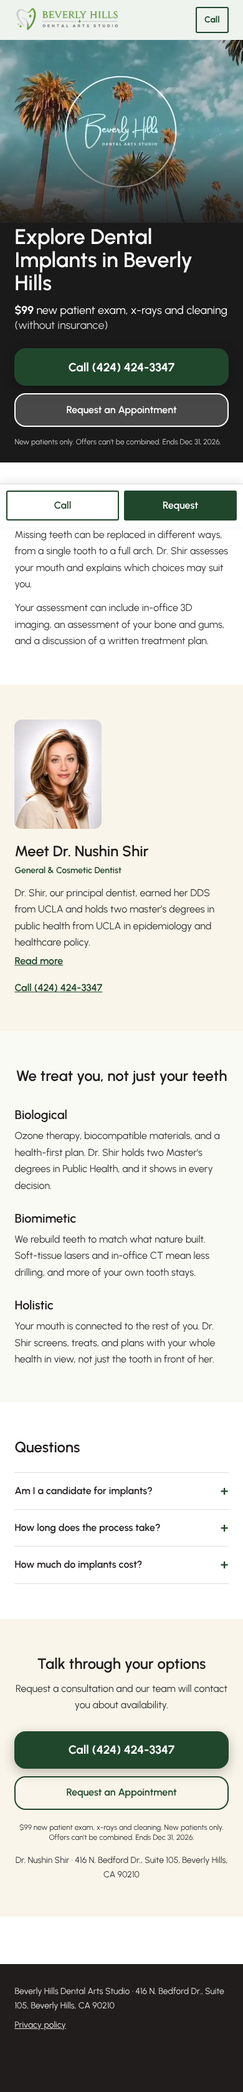
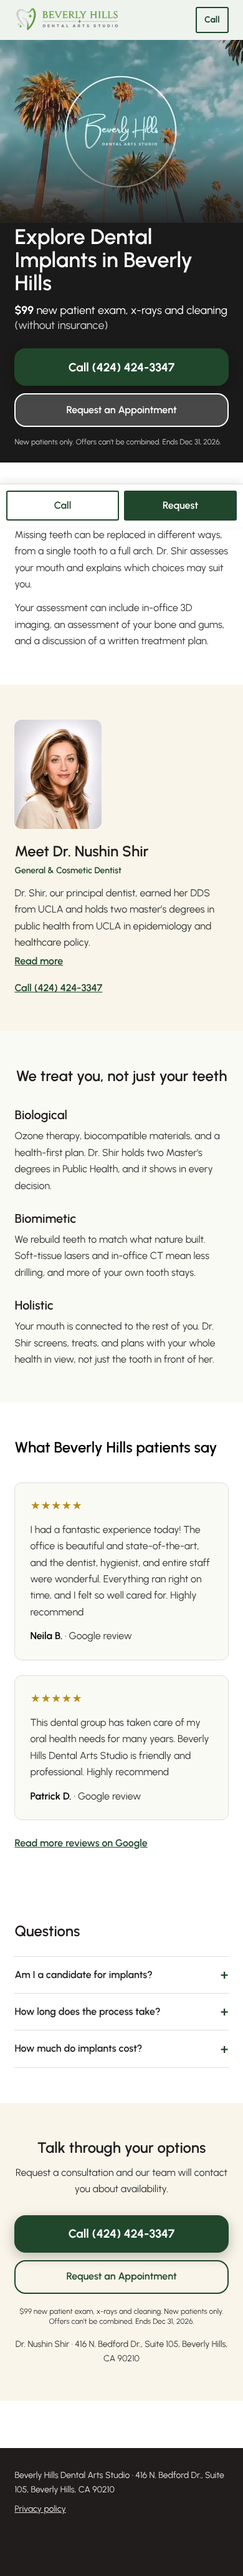
TTR-3066: show two Google reviews on the ChatGPT landing pages (Kia, Nov 23; preview only)
- LP_REVIEWS (lib/lp-pages.ts): Neila B. and Patrick D., word for word from the practice's Google Business Profile, 5 stars,
  labelled "Google review". Used while the CMS (Reviews) has none, so more can be added there later.
- The site's Reviews component now shows the source label and an optional "Read more reviews on Google" link (the
  practice's own Google profile, the link the main site already uses). Area pages are unchanged.
- Visible text only: no Review or AggregateRating markup. Before going live, Kia gets Dr. Shir's OK.

Claude-Session: https://claude.ai/code/session_01JT65UJLcKYSMwyn4zauv8y

Changed region(s): [[0.0, 0.0, 1.0, 0.9928], [0.5538, 0.3413, 0.8615, 0.3723]]

diff --git a/lib/lp-pages.ts b/lib/lp-pages.ts
@@ -62,6 +62,18 @@ export const DEFAULT_OFFERS: OfferKey[] = ["cleaning", "treatment"];
 export const finePrint = (keys: OfferKey[]) =>
   keys.includes("cleaning") && keys.includes("treatment") ? "New patients only. Choose one offer. Offers can't be combined. Ends Dec 31, 2026." : "New patients only. Offers can't be combined. Ends Dec 31, 2026.";
 
+/*
+ * Google reviews on the landing pages (Kia, Nov 23: "just add it"). Two real reviews from the practice's own Google Business Profile,
+ * word for word, first name and last initial, read through TTR OS on Nov 23, 2026. Used only while the CMS (Reviews) has none, so more
+ * can be added there later. Visible text only: no Review or AggregateRating markup. Before going live: Dr. Shir's OK (Kia).
+ */
+export const LP_REVIEWS: { quote: string; name: string; rating: number; source: string }[] = [
+  { name: "Neila B.", rating: 5, source: "Google review", quote: "I had a fantastic experience today! The office is beautiful and state-of-the-art, and the dentist, hygienist, and entire staff were wonderful. Everything ran right on time, and I felt so well cared for. Highly recommend" },
+  { name: "Patrick D.", rating: 5, source: "Google review", quote: "This dental group has taken care of my oral health needs for many years. Beverly Hills Dental Arts Studio is friendly and professional. Highly recommend" },
+];
+/** The practice's own Google profile (the link the main site already uses). */
+export const GOOGLE_PROFILE = "https://www.google.com/maps/place/Beverly+Hills+Dental+Arts+Studio/@34.0684016,-118.4050211,15z/data=!4m6!3m5!1s0x80c2bb639f83cb85:0xfacde87966461c7f!8m2!3d34.0684016!4d-118.4050211";
+
 /* Shared building blocks, from the practice's homepage and About page. */
 export const STRIP = ["Over 30 years of experience", "In-office 3D imaging", "Ozone therapy and soft-tissue lasers"];
 

diff --git a/app/lp/[slug]/page.tsx b/app/lp/[slug]/page.tsx
@@ -3,7 +3,7 @@ import { getImageProps } from "next/image";
 import { preload } from "react-dom";
 import { notFound } from "next/navigation";
 import { RequestButton, RequestModal } from "@/components/lp/RequestModal";
-import { finePrint, LP_PAGES, OFFERS, PILLARS, PRACTICE, type OfferKey } from "@/lib/lp-pages";
+import { finePrint, GOOGLE_PROFILE, LP_PAGES, LP_REVIEWS, OFFERS, PILLARS, PRACTICE, type OfferKey } from "@/lib/lp-pages";
 import { getLpPage } from "@/lib/lp-content";
 import { images } from "@/lib/data/images";
 import { HeroVideo } from "@/components/sections/HeroVideo";
@@ -152,9 +152,9 @@ export default async function LandingPage({ params }: { params: Promise<{ slug: 
         </div>
       </section>
 
-      {/* Reviews: the site's reviews component, with the practice's real reviews from the CMS (added with permission only). Hidden
-          while there are none. Visible text only: no rating or review structured data. */}
-      <Reviews reviews={reviews.slice(0, 3)} area="Beverly Hills" />
+      {/* Reviews: the site's reviews component. The CMS reviews when there are any, else the two Google reviews in LP_REVIEWS (Kia, Nov 23),
+          and a link to the practice's Google profile. Visible text only: no rating or review structured data. */}
+      <Reviews reviews={(reviews.length ? reviews : LP_REVIEWS).slice(0, 3)} area="Beverly Hills" moreHref={GOOGLE_PROFILE} />
 
       {/* 3. A few questions */}
       {p.faqs.length ? (

diff --git a/components/areas/AreaBlocks.tsx b/components/areas/AreaBlocks.tsx
@@ -242,7 +242,7 @@ export function WhyRow({ heading, items, text }: { heading: string; items: AreaW
 }
 
 /** Area reviews: hidden until the office supplies reviews with written permission. */
-export function Reviews({ reviews, area }: { reviews: Testimonial[]; area: string }) {
+export function Reviews({ reviews, area, moreHref }: { reviews: Testimonial[]; area: string; moreHref?: string }) {
   if (!reviews.length) return null;
   return (
     <section className="bg-white py-14 md:py-20">
@@ -255,10 +255,13 @@ export function Reviews({ reviews, area }: { reviews: Testimonial[]; area: strin
                 {"★".repeat(Math.round(r.rating))}
               </p>
               <blockquote className="mt-3 leading-[1.65]">{r.quote}</blockquote>
-              <p className="mt-3 font-semibold text-black">{r.name}</p>
+              <p className="mt-3 font-semibold text-black">{r.name}{r.source ? <span className="font-normal text-body"> · {r.source}</span> : null}</p>
             </li>
           ))}
         </ul>
+        {moreHref ? (
+          <p className="mt-6 md:text-center"><a href={moreHref} target="_blank" rel="noopener noreferrer" className="font-semibold text-brand underline">Read more reviews on Google<span className="sr-only"> (opens in a new tab)</span></a></p>
+        ) : null}
       </div>
     </section>
   );
